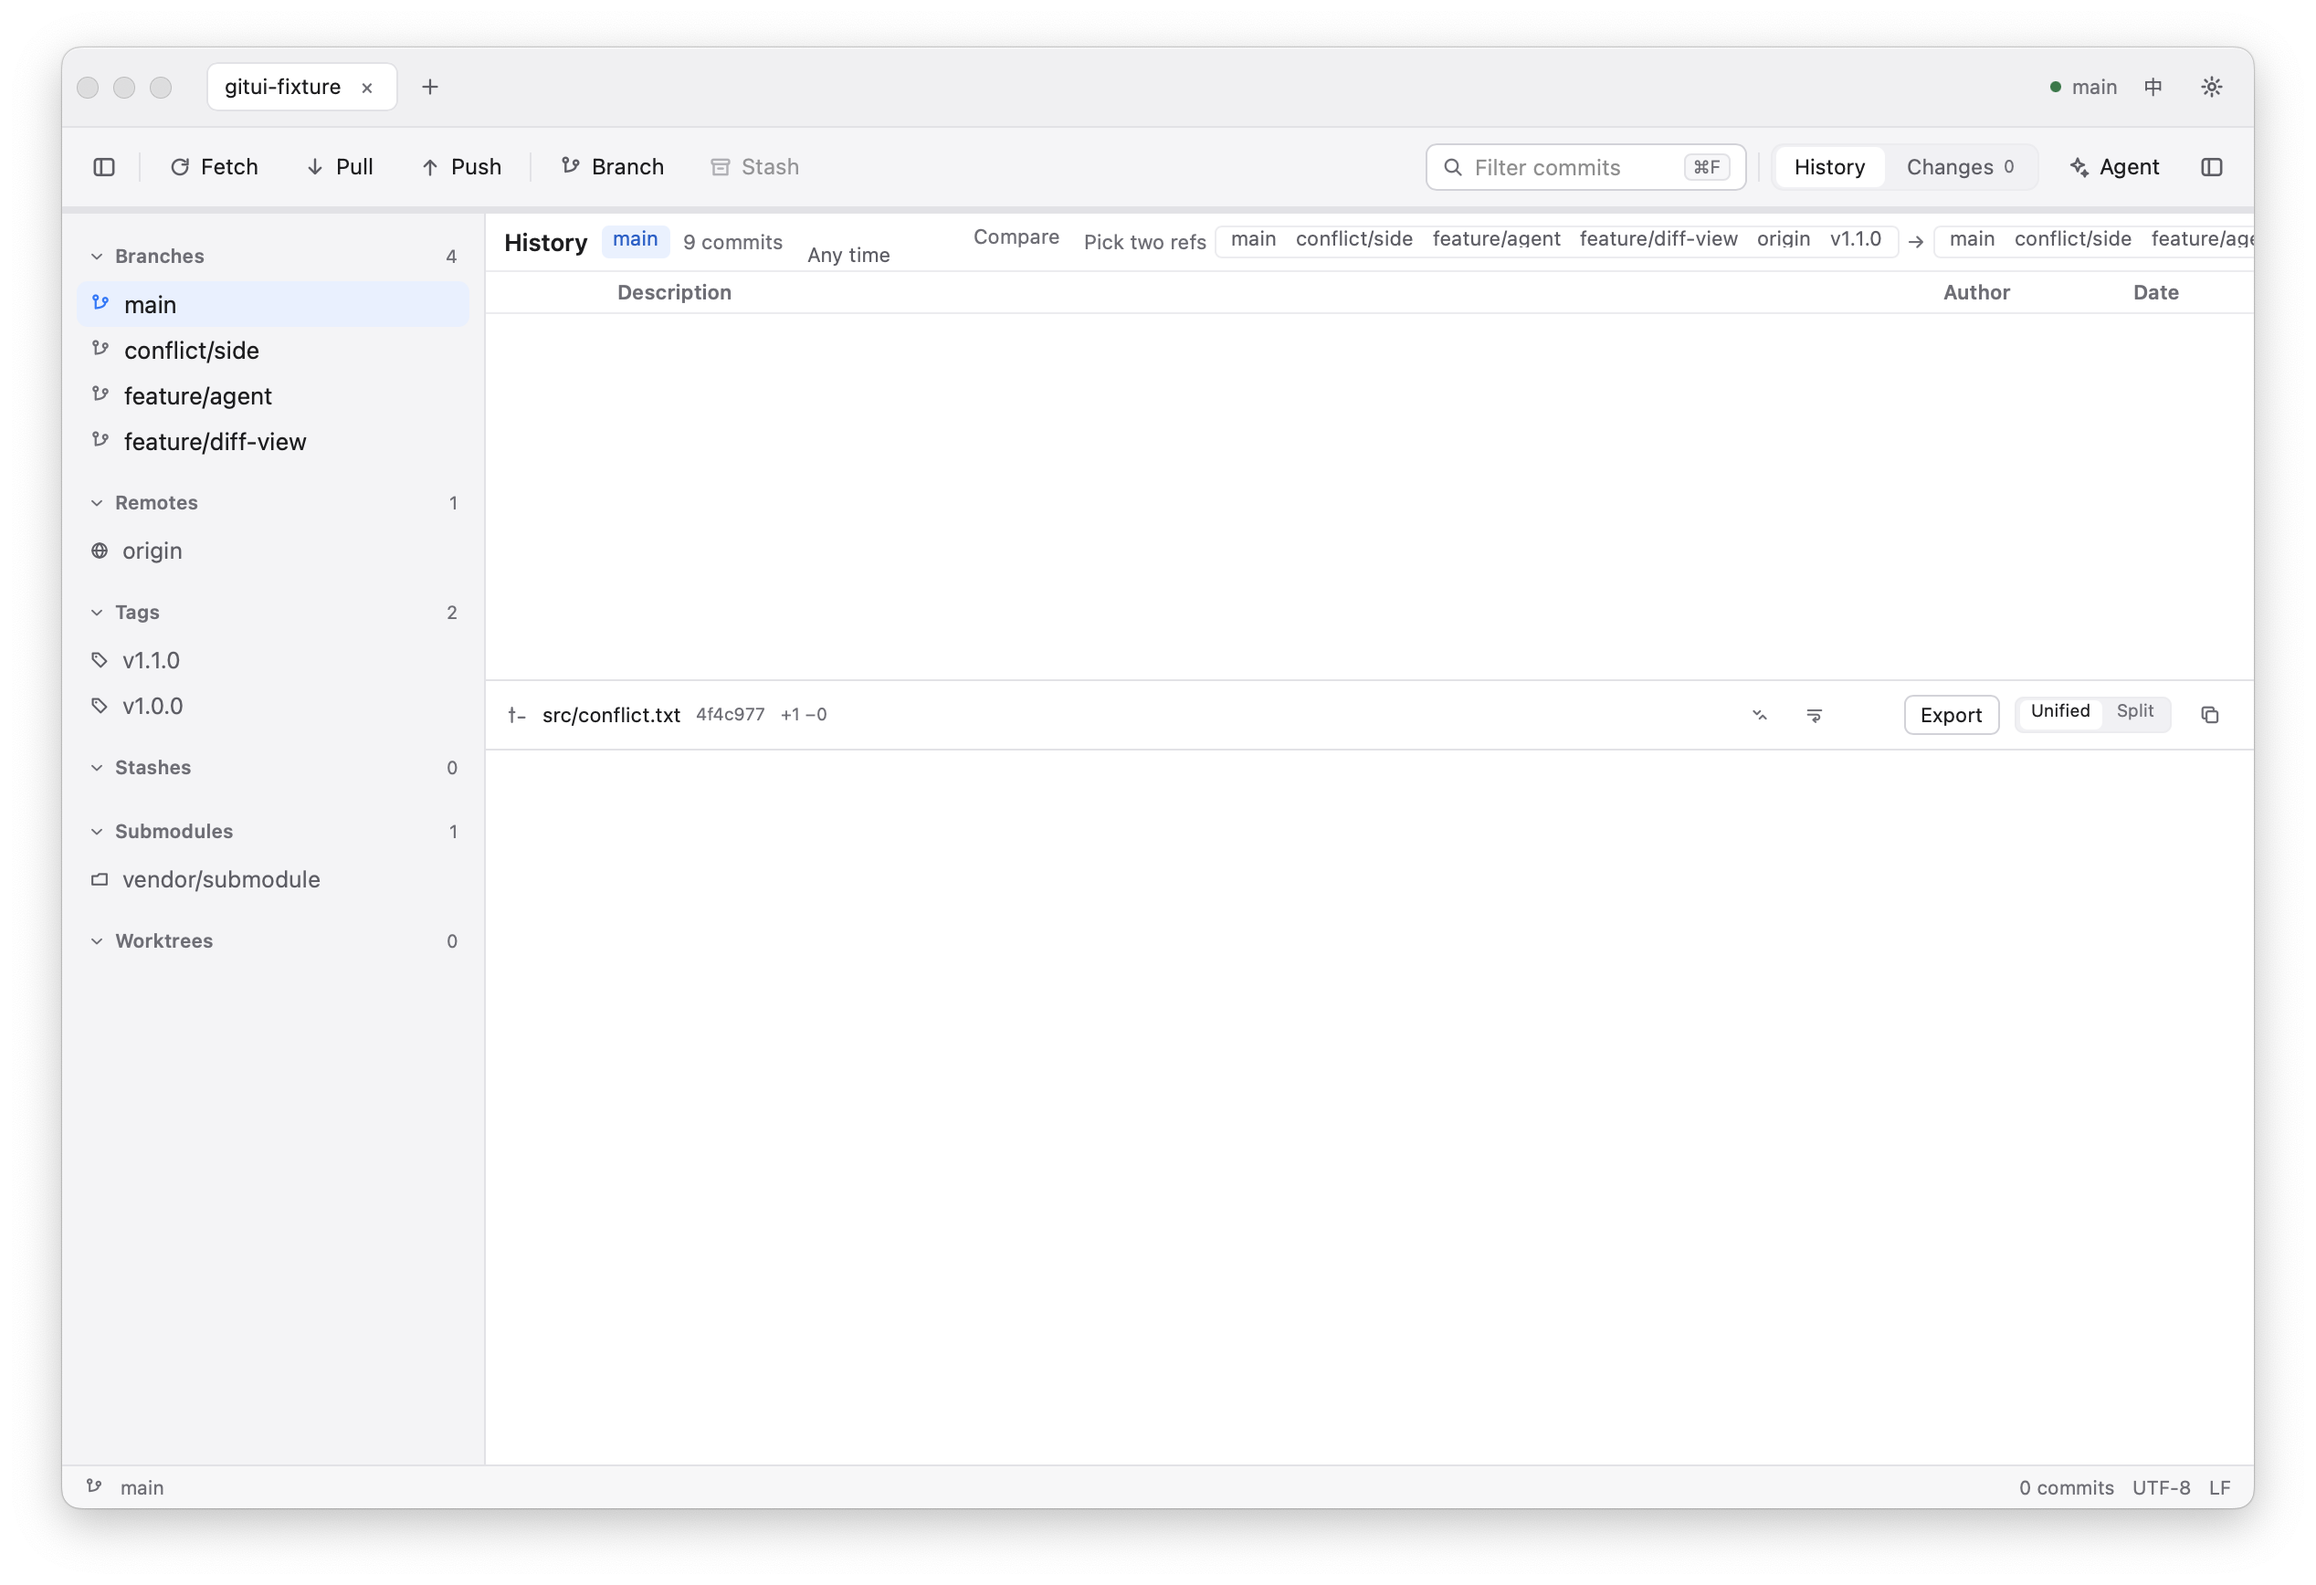
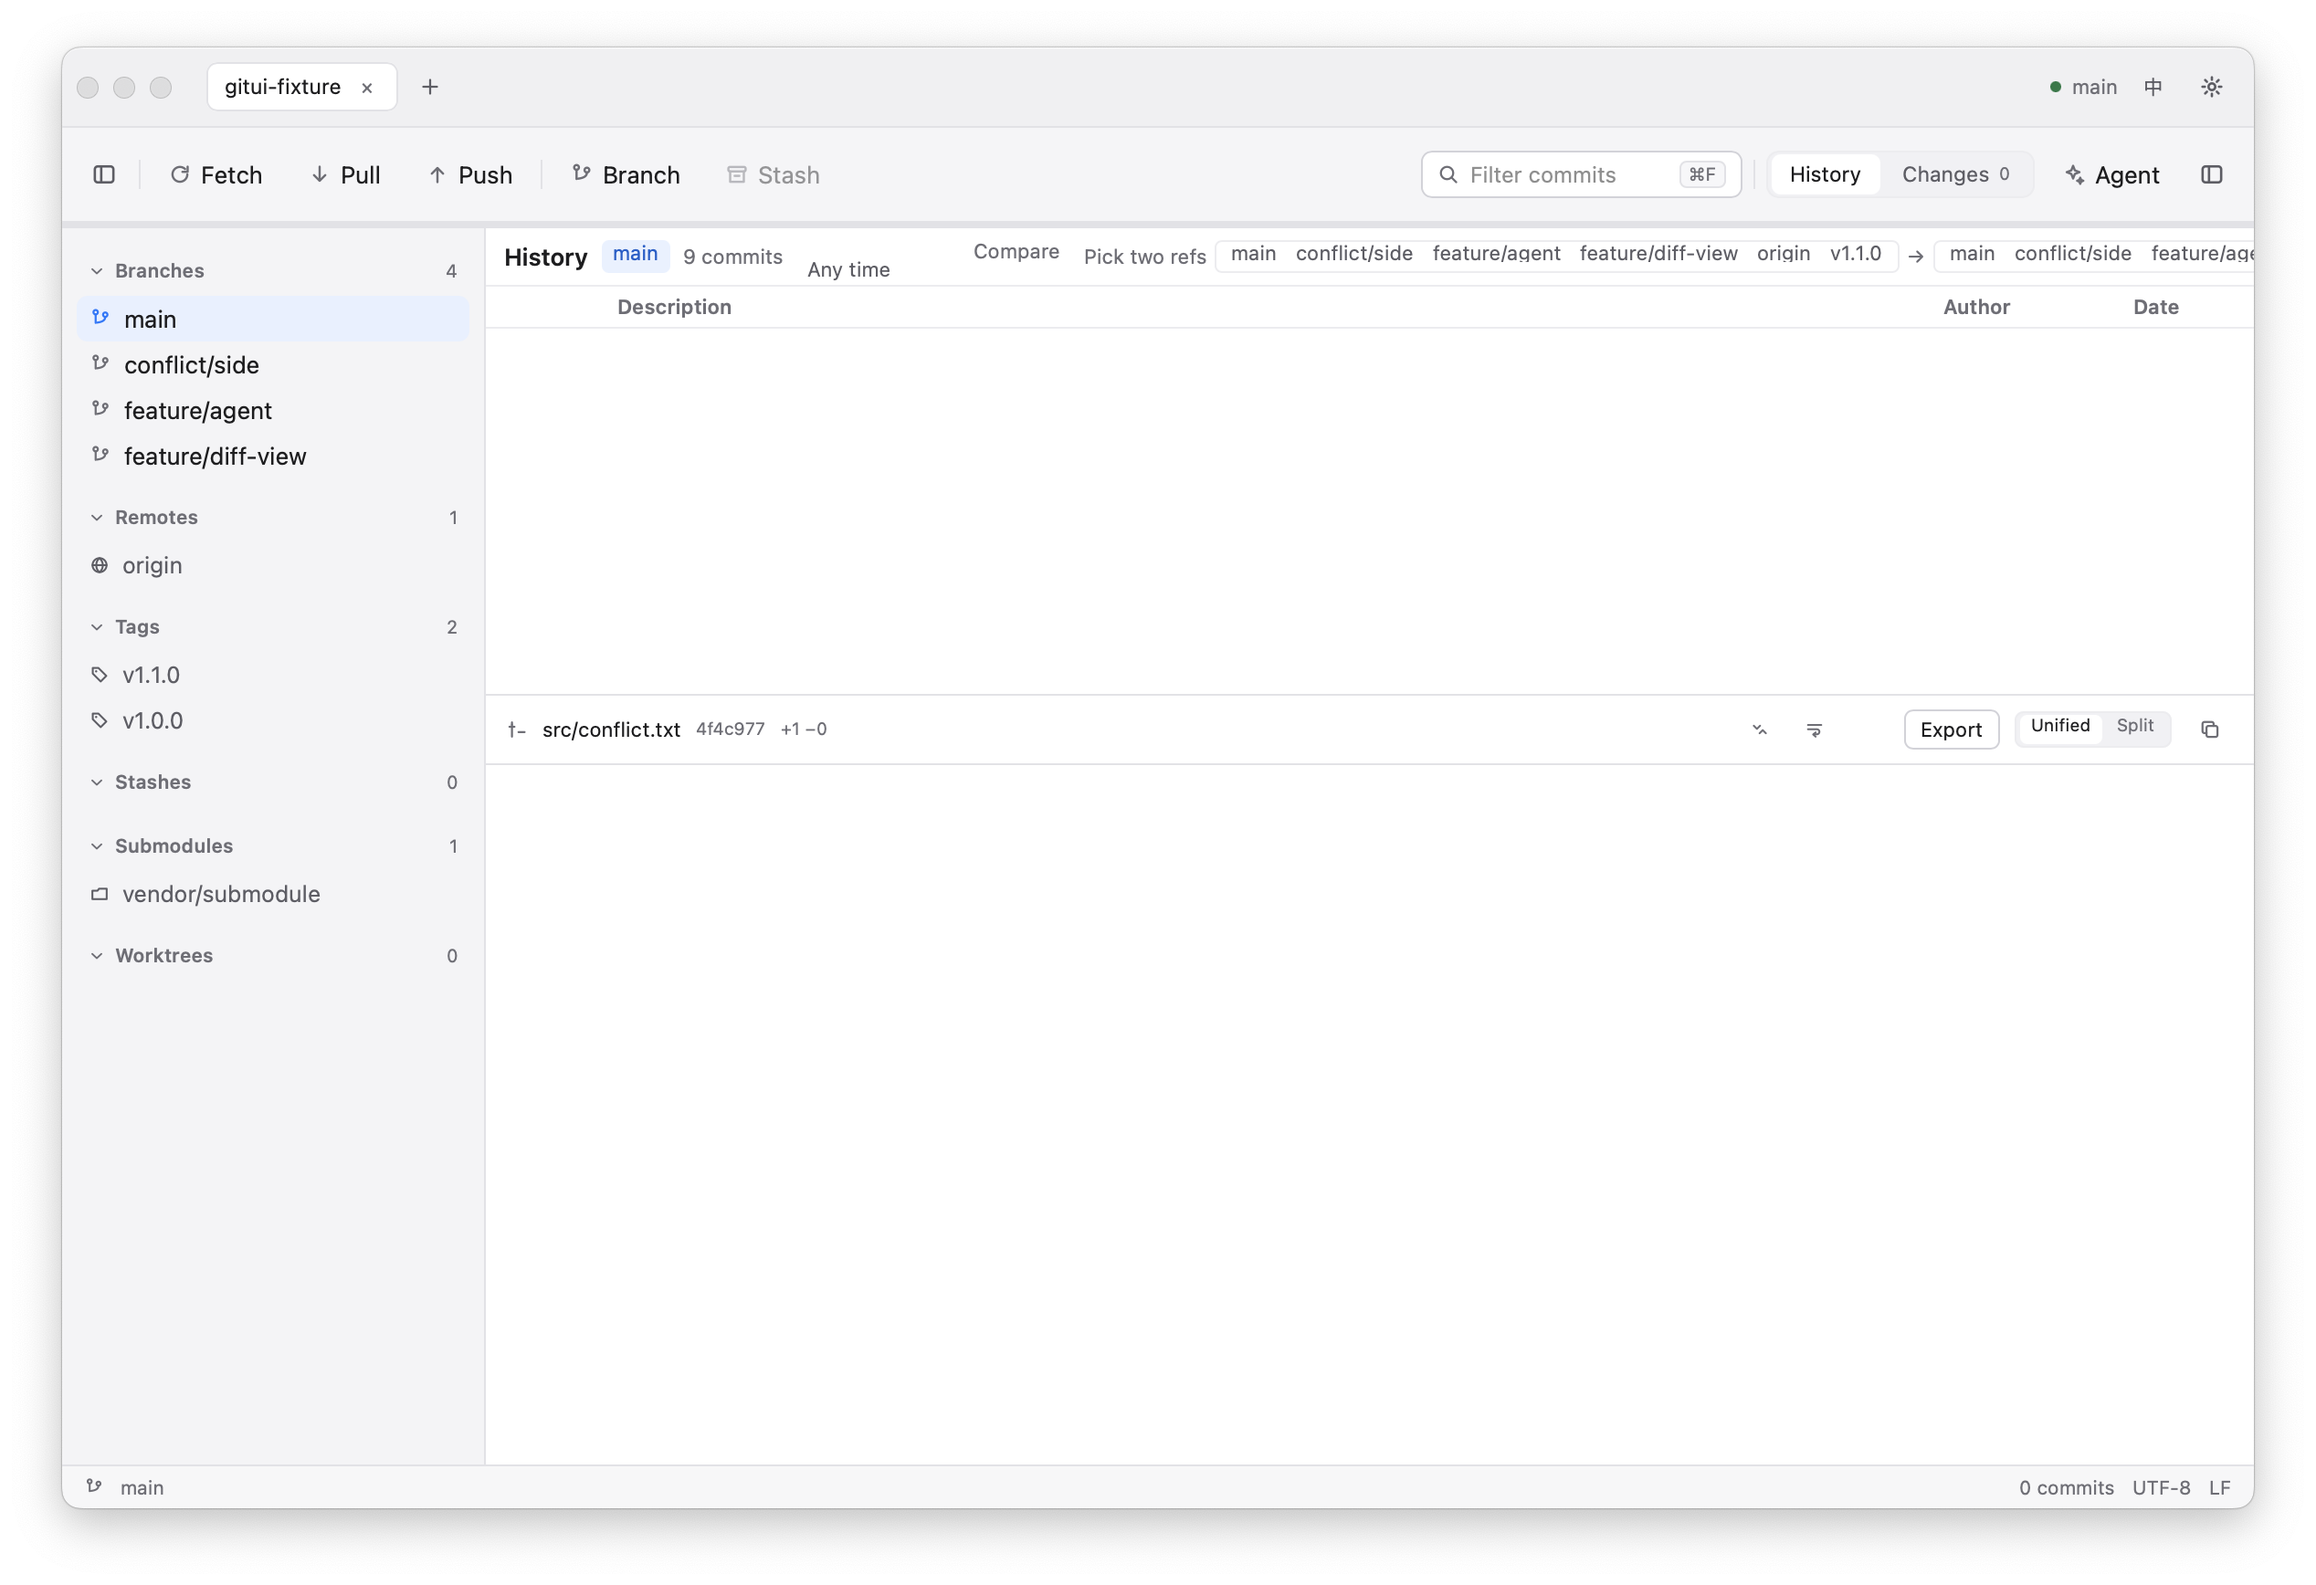
refactor(shell): 工具栏高度对齐原生刻度（44 → 52）
- TOOLBAR_H 从硬编码 44 改为 native::TOOLBAR（52），与 macOS 工具栏高度一致；
- tool_button 的图标与文案改用 ui 刻度：inline_icon（13pt）与 BODY/BODY_LINE，
  不再手写 13.0/12.0/16.0。

截图复核（docs/verify/native/workspace.png，窗口 id 92836）：工具栏条带变高，
按钮图标与文字随之放大，分隔线与悬停正常。

验证：cargo test --lib 78 项通过，cargo check --all-targets 零警告，
tools/check-ui.sh 通过。

diff --git a/apps/client/src/shell/mod.rs b/apps/client/src/shell/mod.rs
@@ -855,11 +855,11 @@ fn tool_button(
         .rounded(px(metrics::RADIUS_CONTROL))
         .hover(|style| style.bg(move || design::hover()))
         .on_press(on_press)
-        .child(widgets::icon(icon, 13.0, design::text2))
+        .child(crate::ui::icon::inline_icon(icon))
         .child(
             text(move || i18n::t(language.get().as_str(), key))
-                .text_size(px(12.0))
-                .line_height(px(16.0))
+                .text_size(px(crate::ui::BODY))
+                .line_height(px(crate::ui::BODY_LINE))
                 .text_color(move || design::text()),
         );
 }
@@ -878,11 +878,11 @@ fn disabled_tool(
         .gap(px(5.0))
         .rounded(px(metrics::RADIUS_CONTROL))
         .opacity(0.45)
-        .child(widgets::icon(icon, 13.0, design::text2))
+        .child(crate::ui::icon::inline_icon(icon))
         .child(
             text(move || i18n::t(language.get().as_str(), key))
-                .text_size(px(12.0))
-                .line_height(px(16.0))
+                .text_size(px(crate::ui::BODY))
+                .line_height(px(crate::ui::BODY_LINE))
                 .text_color(move || design::text()),
         );
 }

diff --git a/apps/client/src/design/metrics.rs b/apps/client/src/design/metrics.rs
@@ -13,7 +13,7 @@ pub const TITLEBAR_H: f32 = 44.0;
 /// 无仓库标签页时的标题栏（`.titlebar`）。
 pub const TITLEBAR_PLAIN_H: f32 = 38.0;
 /// `.toolbar.v2`。
-pub const TOOLBAR_H: f32 = 44.0;
+pub const TOOLBAR_H: f32 = native::TOOLBAR;
 /// 工作区侧栏（`.sidebar`）。
 pub const SIDEBAR_W: f32 = 232.0;
 /// 状态栏（`.statusbar`）。
